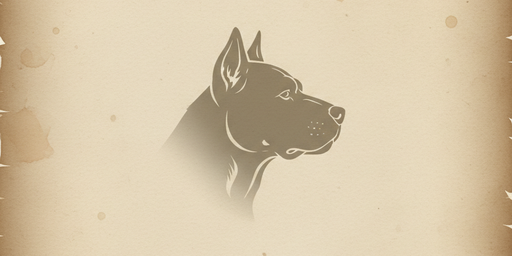
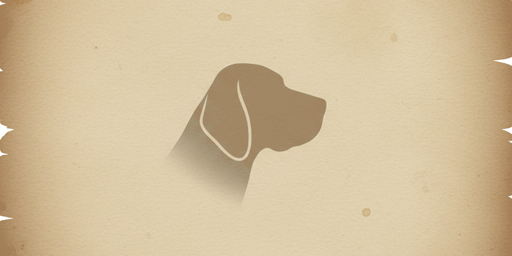
Fix town services panel bugs from playtest
- Tighten visibility filter: services now require BOTH legal-under-law
  AND seen-by-player (was OR, so every service appeared at spawn).
- Tab toggle: tween both offset_left and offset_right so the panel slides
  off-screen instead of resizing to a 500px wide box.
- Render WeaponShape entries (main_hand, off_hand, stowed) on service
  cards so weapon-shop NPCs like Smith Darcy actually display weapons.
  Their inventory dicts are auto-equipped on spawn and were filtered out
  as ghost dicts.
- Cost lookup now safe for both item dicts and WeaponShape Nodes.
- De-duplicate titles inside NPC names: Liana, Magda, Darcy, Easton,
  Juturna (template name no longer repeats the title shown above it).
- Curated inventories per playtest feedback: Juturna gets feyntanyl/joy/
  zip alongside her alcohol; Mostlemyre gets a healing potion; Smith
  Darcy stocks the full simple-weapon set (12 weapons).
- Strip silently-failing 'gold' equipment entries (no item exists yet).
- Fix Don Manor warp crash: floors.json had key 'stone_floor' but id
  'floor_stone'; renamed key. Also harden floor.gd to use .get() so a
  missing definition warns instead of crashing.
- Houndmaster watermark lightened via post-process to match the
  brightness range of the other cards.

diff --git a/tfa-simultaneous-gemini-1/tools/generate_service_cards.py b/tfa-simultaneous-gemini-1/tools/generate_service_cards.py
@@ -45,7 +45,7 @@ SERVICES = {
     "professor":       ("a quill pen crossed with a rolled scroll",                 "academic, sealed scroll"),
     "the_house":       ("a pair of six-sided dice",                                 "gambling, two dice tumbling"),
     "moneylender":     ("a balance scale heaped with coins",                        "double-pan scale, gold coins"),
-    "houndmaster":     ("a single hound's head in profile",                         "fierce dog, alert ears, mastiff"),
+    "houndmaster":     ("a single flat silhouette of a hound's head in profile, simplified mastiff outline", "single-tone dark sepia silhouette, no inner detail, no fur texture, no eyes, no shading — just a flat shape like a paper-cut. Watermark opacity around 18% (more faded than other cards)"),
     "hedge_witch":     ("a small bubbling cauldron over flames",                    "three-legged iron pot, steam"),
     "hierophant":      ("a single all-seeing eye inside a triangle",                "occult, esoteric, mystical seal"),
     "venefica":        ("a single fly-agaric mushroom with spotted cap",            "amanita, alchemical"),